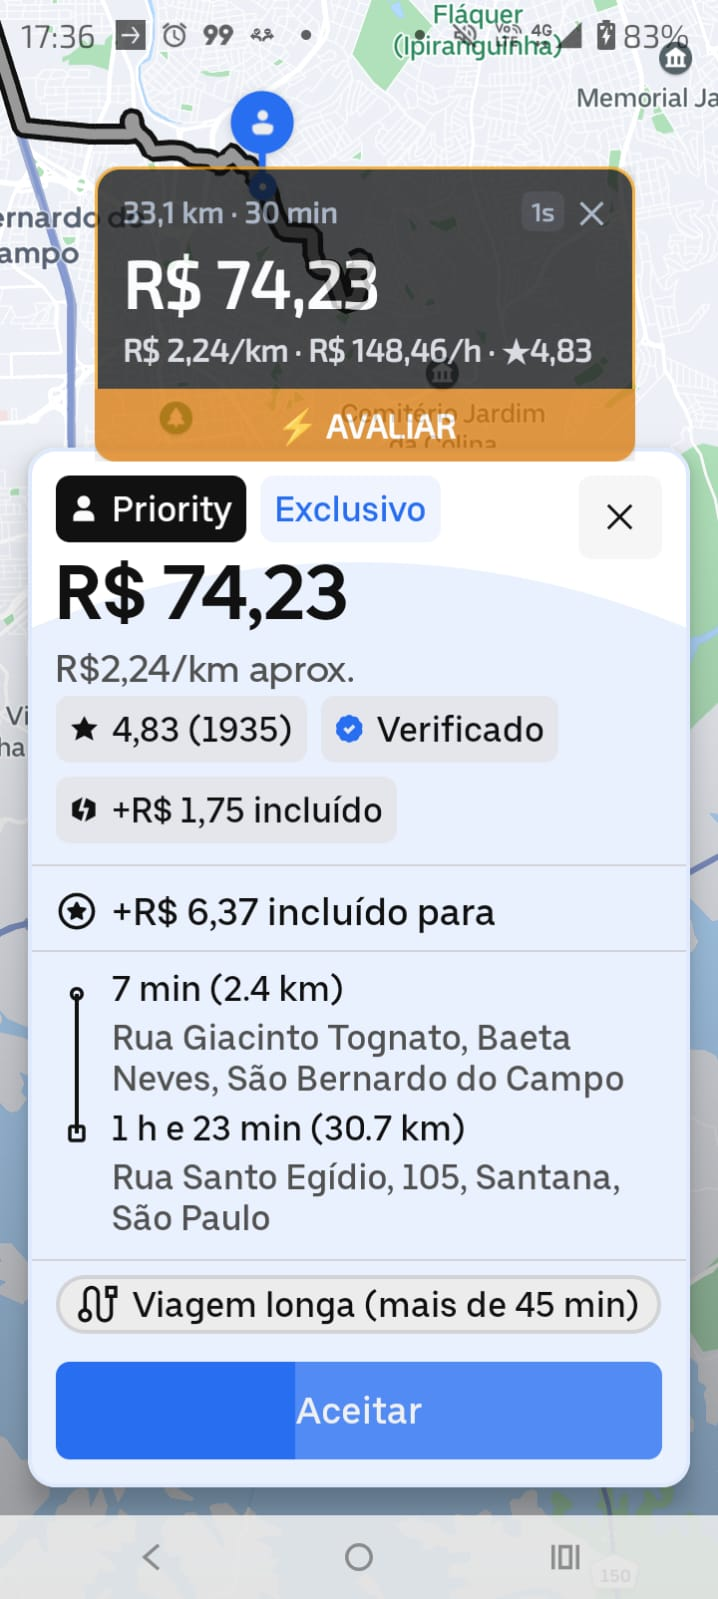
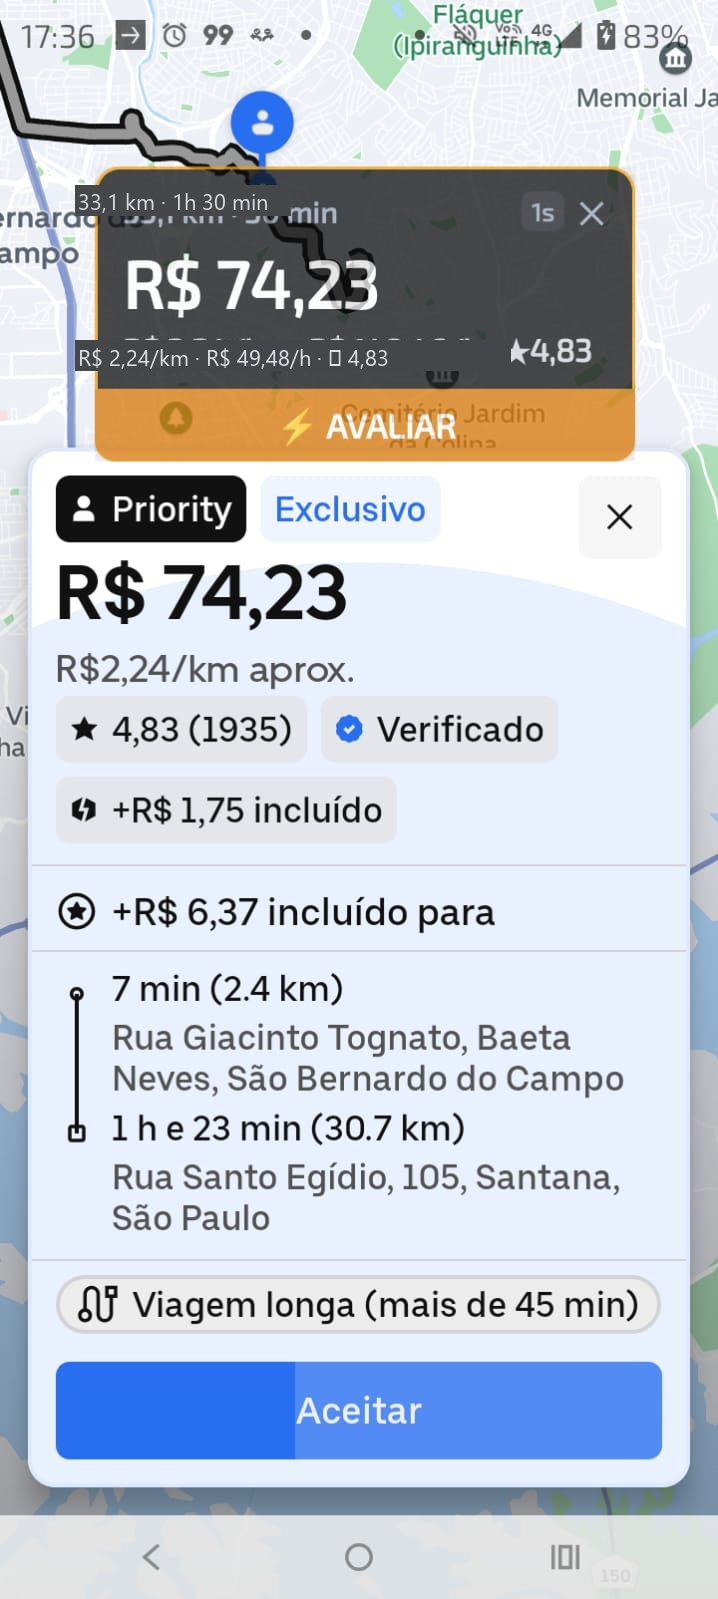
fix(core): auto-fechamento de card no mapa ocioso da Uber, correcao de leitura de tempo/duracao e atualizacao das imagens/metricas da landing page (v3.3.36)

Changed region(s): [[0.0919, 0.2145, 0.6741, 0.2452], [0.0919, 0.0919, 0.3983, 0.1532]]

diff --git a/android/app/src/main/java/com/creativeam/goorno/service/GoOrNoAccessibilityService.kt b/android/app/src/main/java/com/creativeam/goorno/service/GoOrNoAccessibilityService.kt
@@ -153,10 +153,12 @@ class GoOrNoAccessibilityService : AccessibilityService() {
                         continue
                     }
 
-                    if (app?.overlayPanel?.isCopilotMonitoringEnabled() == true &&
-                        app.overlayPanel.isCardCurrentlyVisible() == false
-                    ) {
-                        scanCurrentScreen(eventPkg = null, forceThrottleBypass = true)
+                    if (app?.overlayPanel?.isCopilotMonitoringEnabled() == true) {
+                        if (app.overlayPanel.isCardCurrentlyVisible()) {
+                            checkIfOfferDismissedAndCloseCard(activeRootPkg = null, eventPkg = null)
+                        } else {
+                            scanCurrentScreen(eventPkg = null, forceThrottleBypass = true)
+                        }
                     }
                 } catch (_: Throwable) {
                 }
@@ -215,6 +217,7 @@ class GoOrNoAccessibilityService : AccessibilityService() {
         }
 
         if (app?.overlayPanel?.isCardCurrentlyVisible() == true) {
+            checkIfOfferDismissedAndCloseCard(activeRootPkg = activeRootPkg, eventPkg = evtPkg)
             return
         }
 
@@ -844,5 +847,69 @@ class GoOrNoAccessibilityService : AccessibilityService() {
         (applicationContext as? GoOrNoApplication)?.overlayPanel?.hidePanel()
         serviceScope.cancel()
         super.onDestroy()
+    }
+
+    private fun checkIfOfferDismissedAndCloseCard(activeRootPkg: String?, eventPkg: String?) {
+        val app = applicationContext as? GoOrNoApplication ?: return
+        if (!app.overlayPanel.isCardCurrentlyVisible()) return
+
+        val activeRoot = try { rootInActiveWindow } catch (_: Exception) { null }
+        val targetPkg = activeRoot?.packageName?.toString()
+            ?: activeRootPkg
+            ?: eventPkg
+            ?: ""
+
+        // Se o usuário saiu do app de motorista (foi pro WhatsApp, tela inicial, etc.), fecha o card imediatamente
+        if (targetPkg.isNotBlank() && !SourceApp.isAllowedDriverPackage(targetPkg)) {
+            app.overlayPanel.hideOfferCardOnly()
+            return
+        }
+
+        // Se está no app de motorista, coleta os textos visíveis rápidos
+        val texts = mutableListOf<String>()
+        if (activeRoot != null) {
+            collectFastTexts(activeRoot, texts, maxNodes = 50)
+        }
+
+        if (texts.isEmpty()) return
+
+        val screenJoined = texts.joinToString(" ").lowercase(Locale.ROOT)
+
+        // Se não tem nenhum "R$" na tela E não tem nenhum botão de ação ("aceitar", "escolher", "selecionar", "exclusivo", "radar"),
+        // significa que a oferta sumiu/expirou e o motorista está no mapa ocioso!
+        val hasCurrency = screenJoined.contains("r$")
+        val hasRideAction = screenJoined.contains("aceitar") ||
+            screenJoined.contains("escolher") ||
+            screenJoined.contains("selecionar") ||
+            screenJoined.contains("exclusivo") ||
+            screenJoined.contains("radar") ||
+            screenJoined.contains("deslize")
+
+        val isIdleMap = screenJoined.contains("buscando solicitações") ||
+            screenJoined.contains("buscando solicitacoes") ||
+            screenJoined.contains("procurando viagens") ||
+            screenJoined.contains("você está online") ||
+            screenJoined.contains("voce esta online") ||
+            screenJoined.contains("mapa de chamadas")
+
+        if ((!hasCurrency && !hasRideAction) || isIdleMap) {
+            app.overlayPanel.hideOfferCardOnly()
+        }
+    }
+
+    private fun collectFastTexts(node: AccessibilityNodeInfo, list: MutableList<String>, maxNodes: Int) {
+        if (list.size >= maxNodes) return
+        val t = node.text?.toString()?.trim()
+        if (!t.isNullOrEmpty()) list.add(t)
+        val cd = node.contentDescription?.toString()?.trim()
+        if (!cd.isNullOrEmpty()) list.add(cd)
+
+        val childCount = try { node.childCount } catch (_: Exception) { 0 }
+        for (i in 0 until childCount) {
+            val child = try { node.getChild(i) } catch (_: Exception) { null } ?: continue
+            collectFastTexts(child, list, maxNodes)
+            try { child.recycle() } catch (_: Exception) {}
+            if (list.size >= maxNodes) break
+        }
     }
 }

diff --git a/android/app/src/main/java/com/creativeam/goorno/reader/uber/UberOfferReader.kt b/android/app/src/main/java/com/creativeam/goorno/reader/uber/UberOfferReader.kt
@@ -135,6 +135,14 @@ object UberOfferReader {
             totalMinField = ExtractedField.Present(durations[0])
         }
 
+        val legs = BrazilianOfferParser.extractRideLegs(cleanedLines)
+        if (legs.size >= 2) {
+            if (!pickupKmField.isPresent) pickupKmField = ExtractedField.Present(legs[0].distanceKm)
+            if (!tripKmField.isPresent) tripKmField = ExtractedField.Present(legs[1].distanceKm)
+            if (!pickupMinField.isPresent) pickupMinField = ExtractedField.Present(legs[0].durationMin)
+            if (!tripMinField.isPresent) tripMinField = ExtractedField.Present(legs[1].durationMin)
+        }
+
         val detectedCategory = UBER_CATEGORIES.firstOrNull { cat ->
             cleanedLines.any { it.contains(cat, ignoreCase = true) }
         } ?: "Uber"
@@ -143,15 +151,30 @@ object UberOfferReader {
         val passengerRating = BrazilianOfferParser.extractPassengerRating(cleanedLines)
 
         val conflictNotes = mutableListOf<String>()
-        val totalKmVal = totalKmField.valueOrNull()
+        var totalKmVal = totalKmField.valueOrNull()
             ?: if (pickupKmField.isPresent || tripKmField.isPresent) {
                 (pickupKmField.valueOrNull() ?: 0.0) + (tripKmField.valueOrNull() ?: 0.0)
             } else null
 
-        val totalMinVal = totalMinField.valueOrNull()
+        var totalMinVal = totalMinField.valueOrNull()
             ?: if (pickupMinField.isPresent || tripMinField.isPresent) {
                 (pickupMinField.valueOrNull() ?: 0) + (tripMinField.valueOrNull() ?: 0)
             } else null
+
+        // Proteção contra leitura parcial de tempo (ex: capturar apenas os minutos de embarque como se fosse a viagem toda):
+        // Se a distância for >= 3.0 km e a duração der velocidade urbana > 48 km/h com apenas 1 token de duração:
+        if (totalKmVal != null && totalMinVal != null && totalKmVal >= 3.0 && totalMinVal > 0) {
+            val impliedSpeedKmH = totalKmVal / (totalMinVal / 60.0)
+            if (impliedSpeedKmH > 48.0) {
+                if (durations.size == 1 && (pickupMinField.isMissing || tripMinField.isMissing)) {
+                    val realisticTotalMin = (totalMinVal + (totalKmVal * 2.2).toInt()).coerceIn(12, 180)
+                    totalMinVal = realisticTotalMin
+                    totalMinField = ExtractedField.Present(realisticTotalMin)
+                } else if (impliedSpeedKmH > 85.0) {
+                    conflictNotes.add("Velocidade média (${impliedSpeedKmH.toInt()} km/h) inconsistente com corrida urbana")
+                }
+            }
+        }
 
         if (totalKmVal != null && totalKmVal <= 0.0) {
             conflictNotes.add("Distância igual ou menor que zero")

diff --git a/client/src/DownloadLandingPage.tsx b/client/src/DownloadLandingPage.tsx
@@ -405,14 +405,14 @@ export function DownloadLandingPage({ onOpenSimulator, onOpenAdmin }: DownloadLa
                 </div>
 
                 <div className="flex items-baseline gap-2 mb-1">
-                  <span className="font-space font-black text-3xl sm:text-4xl text-[#071d19] tracking-tight">R$ 2,42</span>
-                  <span className="text-sm font-bold text-[#365922]">/km · R$ 33,56/h</span>
+                  <span className="font-space font-black text-3xl sm:text-4xl text-[#071d19] tracking-tight">R$ 4,60</span>
+                  <span className="text-sm font-bold text-[#365922]">/km · R$ 106,87/h</span>
                 </div>
                 <h3 className="font-space font-black text-lg text-[#071d19] mb-1">
                   Vale a pena aceitar
                 </h3>
                 <p className="text-xs sm:text-sm text-[#3b5936] leading-relaxed mb-4">
-                  R$ 17,90 por 7,4 km (32 min). O GoOrNo calcula combustível + manutenção preventiva e confirma que sobra lucro líquido real no seu bolso.
+                  R$ 28,50 por 6,2 km (16 min). O GoOrNo calcula combustível + manutenção preventiva e confirma que sobra lucro líquido real no seu bolso.
                 </p>
 
                 {/* Smartphone Preview Mockup */}
@@ -455,14 +455,14 @@ export function DownloadLandingPage({ onOpenSimulator, onOpenAdmin }: DownloadLa
                 </div>
 
                 <div className="flex items-baseline gap-2 mb-1">
-                  <span className="font-space font-black text-3xl sm:text-4xl text-[#071d19] tracking-tight">R$ 1,25</span>
-                  <span className="text-sm font-bold text-[#991b1b]">/km · R$ 56,25/h</span>
+                  <span className="font-space font-black text-3xl sm:text-4xl text-[#071d19] tracking-tight">R$ 1,60</span>
+                  <span className="text-sm font-bold text-[#991b1b]">/km · R$ 39,11/h</span>
                 </div>
                 <h3 className="font-space font-black text-lg text-[#071d19] mb-1">
                   Melhor recusar na hora
                 </h3>
                 <p className="text-xs sm:text-sm text-[#7f1d1d] leading-relaxed mb-4">
-                  R$ 11,25 por 9,0 km (23 min). O copiloto detecta busca longa (4,4 km) e avisa que você vai pagar para trabalhar se fizer essa corrida.
+                  R$ 37,15 por 23,2 km (57 min). O copiloto detecta remuneração insuficiente e avisa que você vai pagar para trabalhar se fizer essa corrida.
                 </p>
 
                 {/* Smartphone Preview Mockup */}

diff --git a/client/src/ScreenshotsShowcase.tsx b/client/src/ScreenshotsShowcase.tsx
@@ -81,7 +81,7 @@ export const SCREENSHOTS: ScreenshotItem[] = [
     categoryLabel: 'Cards Flutuantes & Prática',
     badge: '🟢 CORRIDA APROVADA',
     badgeType: 'green',
-    summary: 'Card verde indicando corrida com excelente margem financeira (R$ 2,42/km, R$ 33,56/h e passageiro nota 4,87).',
+    summary: 'Card verde indicando corrida com excelente margem financeira (R$ 4,60/km, R$ 106,87/h e passageiro nota 4,95).',
     highlightText: 'Dinheiro no bolso garantido: cálculo automático descontando combustível e desgaste real do veículo.'
   },
   {
@@ -408,7 +408,7 @@ export function ScreenshotsShowcase({ onBackToLanding }: ScreenshotsShowcaseProp
                   <Maximize2 className="w-4 h-4 text-[#d9ff4f]/60 group-hover:text-[#d9ff4f] transition" />
                 </div>
                 <p className="text-xs text-white/90 leading-relaxed font-dm">
-                  R$ 17,90 por 7,4 km (R$ 2,42/km · R$ 33,56/h). O GoOrNo aprova na hora com card verde destacando alta rentabilidade.
+                  R$ 28,50 por 6,2 km (R$ 4,60/km · R$ 106,87/h). O GoOrNo aprova na hora com card verde destacando alta rentabilidade.
                 </p>
                 <div className="mt-3 text-[11px] font-bold text-[#d9ff4f] underline">
                   Toque para ver o card Compensa →
@@ -430,7 +430,7 @@ export function ScreenshotsShowcase({ onBackToLanding }: ScreenshotsShowcaseProp
                   <Maximize2 className="w-4 h-4 text-[#ff6e58]/60 group-hover:text-[#ff6e58] transition" />
                 </div>
                 <p className="text-xs text-white/90 leading-relaxed font-dm">
-                  R$ 11,25 por 9,0 km (R$ 1,25/km · R$ 56,25/h). O GoOrNo avisa em vermelho que a busca longa (4,4 km) gera prejuízo real.
+                  R$ 37,15 por 23,2 km (R$ 1,60/km · R$ 39,11/h). O GoOrNo avisa em vermelho que a remuneração por km e por hora geram prejuízo real.
                 </p>
                 <div className="mt-3 text-[11px] font-bold text-[#ff6e58] underline">
                   Toque para ver o card Não Compensa →

diff --git a/server/index.ts b/server/index.ts
@@ -993,11 +993,11 @@ app.get("/api/app-version", (_req, res) => {
   res.setHeader("Pragma", "no-cache");
   res.setHeader("Expires", "0");
   res.json({
-    versionName: "3.3.35",
-    versionCode: 56,
+    versionName: "3.3.36",
+    versionCode: 57,
     releaseDate: "2026-10-21",
-    apkUrl: "https://goorno-app.vercel.app/GoOrNo-v3.3.35.apk",
-    directDownload: "/GoOrNo-v3.3.35.apk",
+    apkUrl: "https://goorno-app.vercel.app/GoOrNo-v3.3.36.apk",
+    directDownload: "/GoOrNo-v3.3.36.apk",
     fileSizeBytes: 55320024,
     fileSizeFormatted: "55.3 MB",
     changelog: [
@@ -1140,7 +1140,7 @@ app.get([
   "/GoOrNo-v3.3.4.apk",
   "/download/apk",
   "/download/GoOrNo.apk",
-  "/download/GoOrNo-v3.3.35.apk",
+  "/download/GoOrNo-v3.3.36.apk",
   "/download/GoOrNo-v3.3.32.apk",
   "/download/GoOrNo-v3.3.31.apk",
   "/download/GoOrNo-v3.3.28.apk"
@@ -1149,9 +1149,9 @@ app.get([
   res.setHeader("Pragma", "no-cache");
   res.setHeader("Expires", "0");
   const candidatePaths = [
-    path.resolve(process.cwd(), "GoOrNo-v3.3.35.apk"),
-    path.resolve(process.cwd(), "dist/public/GoOrNo-v3.3.35.apk"),
-    path.resolve(process.cwd(), "client/public/GoOrNo-v3.3.35.apk"),
+    path.resolve(process.cwd(), "GoOrNo-v3.3.36.apk"),
+    path.resolve(process.cwd(), "dist/public/GoOrNo-v3.3.36.apk"),
+    path.resolve(process.cwd(), "client/public/GoOrNo-v3.3.36.apk"),
     path.resolve(process.cwd(), "GoOrNo-v3.3.32.apk"),
     path.resolve(process.cwd(), "dist/public/GoOrNo-v3.3.32.apk"),
     path.resolve(process.cwd(), "client/public/GoOrNo-v3.3.32.apk"),
